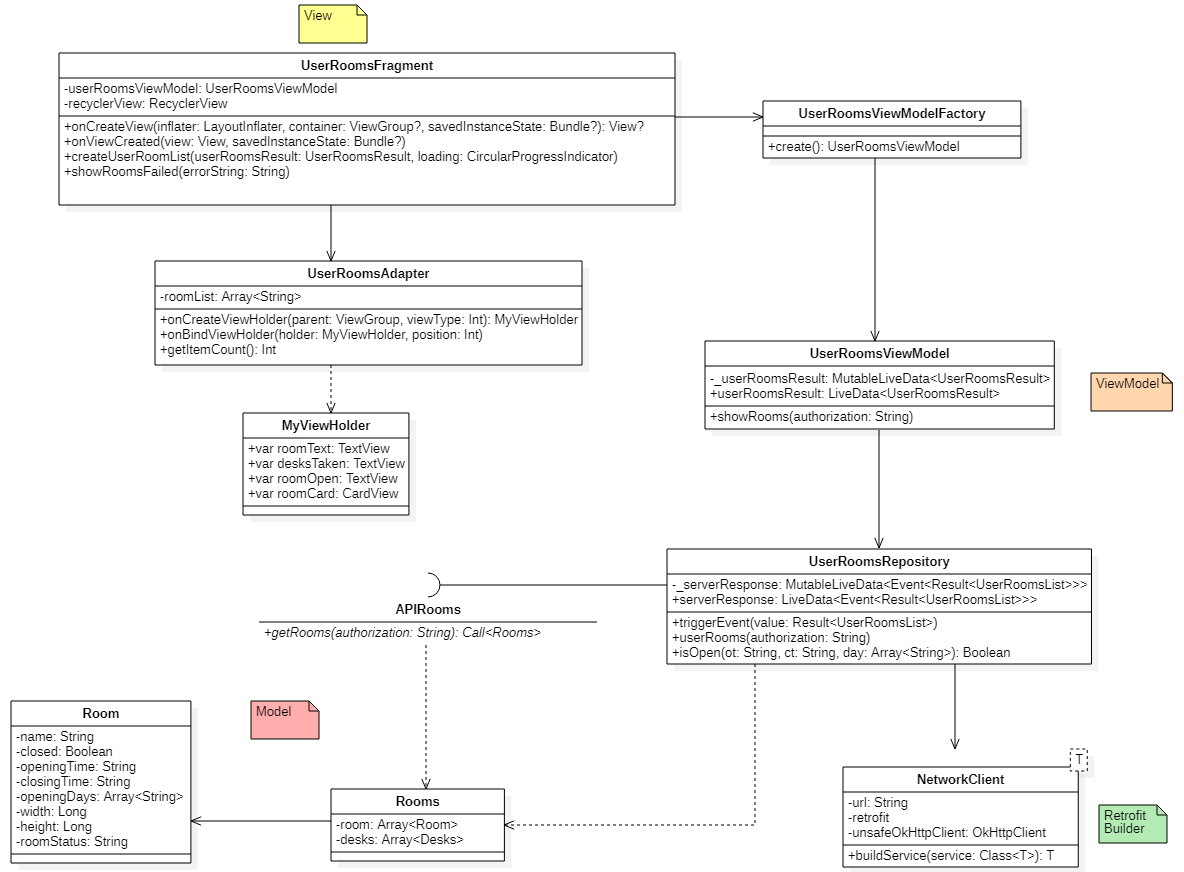
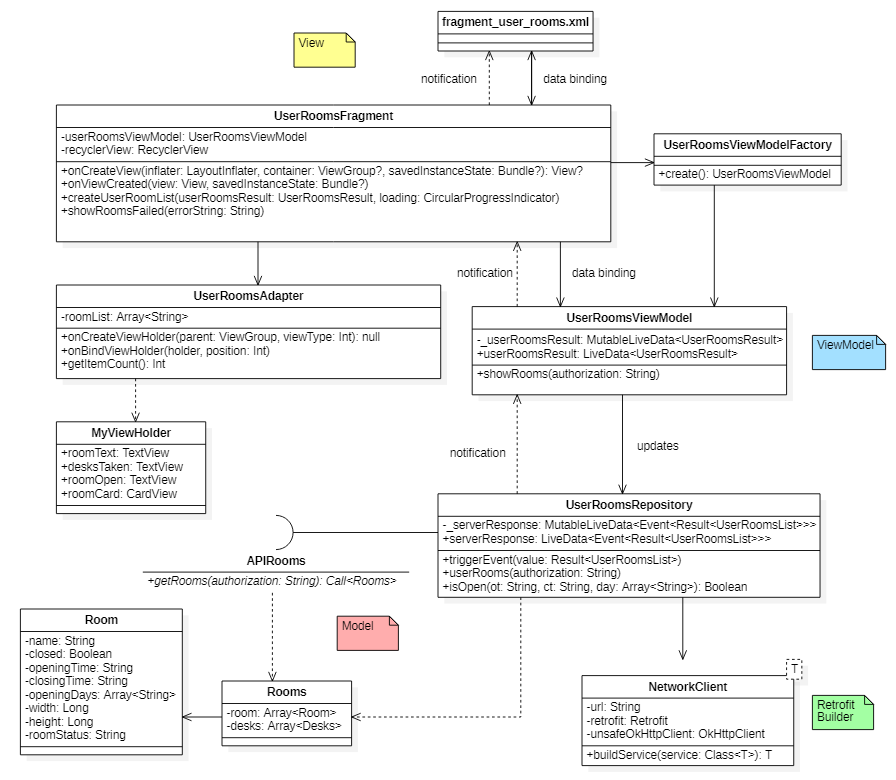
improved android developer manual

diff --git a/manutentore/android/architettura.md b/manutentore/android/architettura.md
@@ -17,29 +17,50 @@ nav_order: 3
 {:toc}
 </details>
 
-L'architettura scelta per l'applicazione mobile è il MVVM (Model View ViewModel).
-Questa architetura è ottima per separare logica da presentazione, ma non solo, è particolarmente utile per gestire con efficacia e scalabilità le chiamate API.
-Ogni funzionalità infatti segue questa architettura, con alcune aggiunte per soddisfare le necessità intrinseche ad ogni funzionalità.
-
-Questo si denota dal nostro diagramma dei package:
+## Diagramma dei pacchetti
+Vediamo qui il nostro diagramma dei package:
 
 ![](/assets/android/package_diagram.png)
 
-Il package "ui" gestiscono i file della view e del viewmodel, il package "data" gestisce il model e il package "services" contiene le interfacce API.
-Invece il package "res" contiene tutti i file xml e png per gestire l'aspetto e le icone dell'applicazione.
+I package all'interno di "ui" gestiscono i file della View e del Viewmodel e eventuali altre classi. 
+Il package "data" gestisce il Model con le sue data class e le repositories. 
+Il package "services" contiene le interfacce API, il NetworkClient e le data class per le risposte del server.
+Infine il package "res" contiene tutti i file xml e png per gestire l'aspetto, la navigazione e le icone dell'applicazione.
 
-Nello specifico quindi ogni funzionalità ricrea il MVVM, come descritto in questo diagramma delle classi, specifico per la funzionalità UserRooms:
+## Pattern architetturale: MVVM
+L'architettura scelta per l'applicazione mobile è il MVVM (Model View ViewModel).
+Questa architetura è ottima per separare logica da presentazione, ma non solo, è particolarmente utile per gestire con efficacia e scalabilità le chiamate API.
+Ogni funzionalità infatti segue questa architettura, a volte con alcune aggiunte per soddisfare le necessità intrinseche di ogni funzionalità.
+Nello specifico quindi ogni funzionalità ricrea il MVVM, in cui si va a separare la UI dalla business logic:
+- la View utilizza linguaggi di markup, nel nostro caso .xml, e si utilizza il two-way data binding per comunicare con essa.
+- il ViewModel fa da intermediario tra il Model e la View grazie a LiveData. Invoca i metodi del Model per poi fornire i dati ottenuti alla View in una forma facilmente utilizzabile.
+- il Model comunica con il server e contiene dati e logica di validazione.
+
+![](/assets/android/MVVM.png)
+
+## Diagramma delle classi
+Vediamo ora un diagramma delle classi, in questo caso della funzionalità UserRooms ma utilizzato in generale da quasi tutte le pagine:
 
 ![](/assets/android/class_diagram.png)
 
 Da questo diagramma possiamo vedere come sono implementati i metodi e le classi del MVVM.
-Per prima cosa viene creato il model, per gestire gli oggetti in entrata dal lato server.
+Per prima cosa viene creato il Model, per gestire gli oggetti in entrata dal lato server.
 La chiamata Get all'API viene fatta dall'interfaccia APIRooms, creata dalla UserRepository tramite il nostro Retrofit Builder, implementato nel file NetworkClient.
 In NetworkClient vengono anche gestiti i certificati http tramite la libreria Okhttp3.
-L'UserRoomsFragment gestisce assieme ai file XML la view e alla propria creazione, tramite un UserRoomsViewModelFactory, crea il nostro viewModel: UserRoomsViewModel.
+L'UserRoomsFragment gestisce assieme ai file .xml la View, con cui comunica tramite data binding. Alla propria creazione, tramite un UserRoomsViewModelFactory, crea il nostro ViewModel: UserRoomsViewModel.
 I dati che vengono ricevuti dal server tramite Retrofit vengono inseriti all'interno di LiveData, i quali vengono letti da UserRoomsFragment e UserRoomsViewModel tramite observers definiti nelle relative classi.
-Questi observers si occupano di gestire e notificare alla view i cambiamenti agli oggetti, in modo da poter aggiornare i dati visti dall'utente nell'applicazione.
+Questi observers si occupano di gestire e notificare alla View i cambiamenti agli oggetti, in modo da poter aggiornare i dati visti dall'utente nell'applicazione.
 
 Come introdotto prima, ogni funzionalità ha dei bisogni aggiuntivi propri, in questo caso ad esempio è stato necessario implementare un UserRoomsAdapter per gestire dinamicamente gli oggetti della lista prenotazioni, implementata tramite uno standard RecyclerView.
+
+## Espansione
+Vista la natura modulare di questa applicazione è possibile estenderla in modo semplice visto che ogni pagina è indipendente dalle altre. Se si volessero aggiungere ulteriori funzionalità 
+è sufficiente seguire i pattern già utilizzati per le altre pagine e quindi avere:
+- un file .xml all'interno del package "layout";
+- creare un nuovo package all'interno di "ui", contenente almeno un Fragment ed un ViewModel che comunicano con il layout tramite data binding;
+- se si desidera utilizzare API del server, creare un'interfaccia all'interno di "apis", una Repository all'interno di "repositories" ed eventuali data class all'interno di "model" e "gsonReceive".
+Infine, una volta creata la nuova pagina, è possibile inserirla all'interno dei file nel package "navigation" per renderla accessibile da altre pagine tramite la navigazione standard di Android.
+
+Seguendo la struttura dei package appena definita, è anche possibile aggiungere test di unità delle rispettive classi all'interno della cartella "com.sweven.blockcovid (test)".
 
 {% include prev_next.liquid %}

diff --git a/manutentore/android/testing.md b/manutentore/android/testing.md
@@ -20,13 +20,22 @@ nav_order: 4
 ## Test di unità
 I test di unità sono stati sviluppati utilizzando Junit e Mockito.
 Per eseguirli tramite Android Studio è sufficiente fare tasto destro sul file di test all'interno della cartella "com.sweven.blockcovid (test)" e cliccare su "Run Test with Coverage".
+Alternativamente è possibile eseguirli tramite JaCoCo tramite il comando:
+```sh
+./gradlew clean test jacocoTestReport
+```
+dalla root del progetto. Verrà generato un report con il code coverage all'interno della cartella "/app/build/reports/jacoco/jacocoTestReport/html/index.html".
 
 ## Test di sistema
-I test di sistema invece sono stati sviluppati tramite Espresso.
-Per eseguirli tramite Android Studio è sufficiente fare tasto destro sul file di test all'interno della cartella "com.sweven.blockcovid (androidTest)" e cliccare su "Run Test with Coverage".
-Prima di eseguire questi test è necessario fare il run sul dispositivo mobile o sulla macchina virtuale e assicurarsi di essere sulla pagina di login. Inoltre è necessario disabilitare le animazioni del dispositivo Android tramite le Opzioni sviluppatore. 
+I test di sistema invece sono stati sviluppati tramite Espresso, situati nella cartella "/tests".
+Per eseguirli tramite Android Studio è sufficiente copiarli all'interno della cartella "androidTest", fare tasto destro sul file di test e cliccare su "Run Test with Coverage".
+Prima di eseguire questi test è necessario fare il run sul dispositivo mobile o sulla macchina virtuale e assicurarsi di essere sulla pagina di login. 
+Inoltre è necessario disabilitare le animazioni del dispositivo Android tramite le Opzioni sviluppatore. 
 
 ## GitHub Actions
-Il servizio di [Continuous Integration](/glossario#continuous-integration) che è stato deciso di utilizzare è GitHub Actions, fornito appunto da GitHub. Questo permette di creare dei workflow personalizzati, ovvero dei processi automatici creati sulla base delle proprie esigenze. Ciò ha l'obiettivo di automatizzare il ciclo di vita di sviluppo del software grazie ad un ampia gamma di strumenti e servizi.
+Il servizio di [Continuous Integration](/glossario#continuous-integration) che è stato deciso di utilizzare è GitHub Actions, fornito appunto da GitHub. 
+Questo permette di creare dei workflow personalizzati, ovvero dei processi automatici creati sulla base delle proprie esigenze. 
+Ciò ha l'obiettivo di automatizzare il ciclo di vita di sviluppo del software grazie ad un ampia gamma di strumenti e servizi.
+La code coverage viene automaticamente calcolata ed aggiornata ad ogni push su GitHub tramite [Codecov](https://codecov.io/).
 
 {% include prev_next.liquid %}

diff --git a/manutentore/index.md b/manutentore/index.md
@@ -15,16 +15,16 @@ Lo scopo del Manuale Manutentore è presentare le procedure di installazione e s
 
 Il prodotto BlockCOVID permette di tracciare l'utilizzo di postazioni e stanze di lavoro all'interno di aziende.
 Il progetto si articola su 3 moduli:
-- [Server](/manutentore/server): espone le API utilizzate dai client Android e Web, fornisce la business logic e permette di persistere i dati su database e servizio blockchain,
-- [Android](/manutentore/android): permette ai dipendenti di prenotare ed utilizzare le postazioni di lavoro, e agli addetti alle pulizie di segnalare le stanze sanificate,
+- [Server](/manutentore/server): espone le API utilizzate dai client Android e Web, fornisce la business logic e permette di persistere i dati su database e servizio blockchain;
+- [Android](/manutentore/android): permette ai dipendenti di prenotare ed utilizzare le postazioni di lavoro, e agli addetti alle pulizie di segnalare le stanze sanificate;
 - [Web](/manutentore/web): mette a disposizione degli amministratori una piattaforma web per reperire informazioni sull'utilizzo delle postazioni, con possibilità di creare e modificare stanze e di generare i report che verranno aggiunti alla blockchain.
 
 ## Tipologie di utenti
 
 All'interno del progetto vengono considerate 3 tipologie di utenti (si noti che ogni account può essere associato a più di una tipologia di utente):
-- **User**: generalmente associato ad un dipendente, permette di effettuare prenotazioni ed utilizzare le postazioni
-- **Cleaner**: tipologia di utente utilizzato dagli addetti alle pulizie per segnalare la sanificazione delle stanze
-- **Admin**: utenti che hanno permessi di modifica di stanze e account, nonché di visualizzazione di tutte le prenotazioni presenti nel sistema 
+- **User**: generalmente associato ad un dipendente, permette di effettuare prenotazioni ed utilizzare le postazioni:
+- **Cleaner**: tipologia di utente utilizzato dagli addetti alle pulizie per segnalare la sanificazione delle stanze:
+- **Admin**: utenti che hanno permessi di modifica di stanze e account, nonché di visualizzazione di tutte le prenotazioni presenti nel sistema.
 
 ## Riferimenti informativi
 - [Documentazione Spring](https://spring.io/projects/)

diff --git a/manutentore/android/installazione.md b/manutentore/android/installazione.md
@@ -33,36 +33,19 @@ Per preparare l'ambiente di lavoro per lo sviluppo dell'applicazione mobile Bloc
 1. scaricare ed installare Android Studio, disponibile al seguente link: [Android Studio](https://developer.android.com/studio);
 2. scaricare l'ultima release dell'applicazione, in formato .zip, disponibile al seguente link: [BlockCOVID-Android](https://github.com/SwevenSoftware/BlockCOVID-android/releases);
 3. estrarne il contenuto in una cartella qualsiasi;
-4. tramite Android Studio, aprire la cartella in cui è stata estratta la release come progetto;
+4. tramite Android Studio, aprire la cartella in cui è stata estratta la release come progetto.
 
-### Apk bundle
+### APK bundle
 
-#### Android studio
+#### Android Studio
 {: .no_toc }
-Android studio offre la possibilità di realizzare un bundle `apk`
+Android Studio offre la possibilità di realizzare un bundle `apk`
 della propria applicazione direttamente all'interno dell'IDE. Questa
 funzione è disponibile all'interno di *Build > Generate signed
-bundle/APK*
+bundle/APK*.
 
-#### Gradle
-{: .no_toc }
-Gradle permette di generare un bundle non firmato della propria
-applicazione tramite 
-
-```sh
-./gradlew assemble
-```
-
-nella root del progetto. In questo caso per l'installazione su un
-dispositivo è necessario firmare l'applicativo generato (rialsciato da
-gradle nel percorso `app/build/output/apk`). È possibile firmare l'apk
-generato tramite il tool apksigner rilasciato ufficialmente dal team
-di sviluppo android. Maggiori informazioni sul suo utilizzo nella
-[documentazione
-ufficiale](https://developer.android.com/studio/command-line/apksigner)
-
-### Testing
-È possibile testare il comportamento dell'applicazione sempre tramite Android Studio:
+## Esecuzione
+È possibile eseguire l'applicazione per testarne il comportamento sempre tramite Android Studio:
 
 - Attivare la modalità debug sul proprio dispositivo Android;
 - fare la build del progetto tramite Android Studio tramite ***Build >

diff --git a/manutentore/android/tecnologie.md b/manutentore/android/tecnologie.md
@@ -25,7 +25,7 @@ Android SDK fornisce le librerie API e gli strumenti per sviluppatori necessari 
 
 - - -
 
-### Kotlin 1.4.32
+### Kotlin 1.5.20
 
 Kotlin è un linguaggio di programmazione general purpose, multi-paradigma, open source sviluppato dall'azienda di software JetBrains. Kotlin si basa sulla JVM (Java Virtual Machine) e dal 2019 viene utilizzato da Google per lo sviluppo Android.
 
@@ -33,7 +33,7 @@ Kotlin è un linguaggio di programmazione general purpose, multi-paradigma, open
 
 - - -
 
-### Gradle 6.5
+### Gradle 6.7.1
 Gradle è uno strumento di automazione della build open source progettato per essere abbastanza flessibile da creare quasi tutti i tipi di software. Gradle viene eseguito sulla JVM e per utilizzarlo è necessario disporre di un Java Development Kit (JDK)
 
 [https://docs.gradle.org/current/userguide/userguide.html](https://docs.gradle.org/current/userguide/userguide.html)

diff --git a/manutentore/android/contribuzione.md b/manutentore/android/contribuzione.md
@@ -23,8 +23,10 @@ Come indicato all'interno della sezione [Contributing del README](https://github
 
 Modifiche al codice sorgente (per ogni _branch_ e per _Pull Request_) scatenano i processi di [_continuous-integration_](/glossario#continuous-integration) attraverso _GitHub Actions_, seguendo due workflow (`.github/workflows`):
 - `build-app`
-    - Compila il codice
+    - Compila il codice;
 - `detekt-analysis`
-    - Esegue un'analisi statica del codice
+    - Esegue un'analisi statica del codice;
+- `code-coverage`
+    - Calcola la code coverage e la carica su [Codecov](https://codecov.io/).
 
 {% include prev_next.liquid %}
